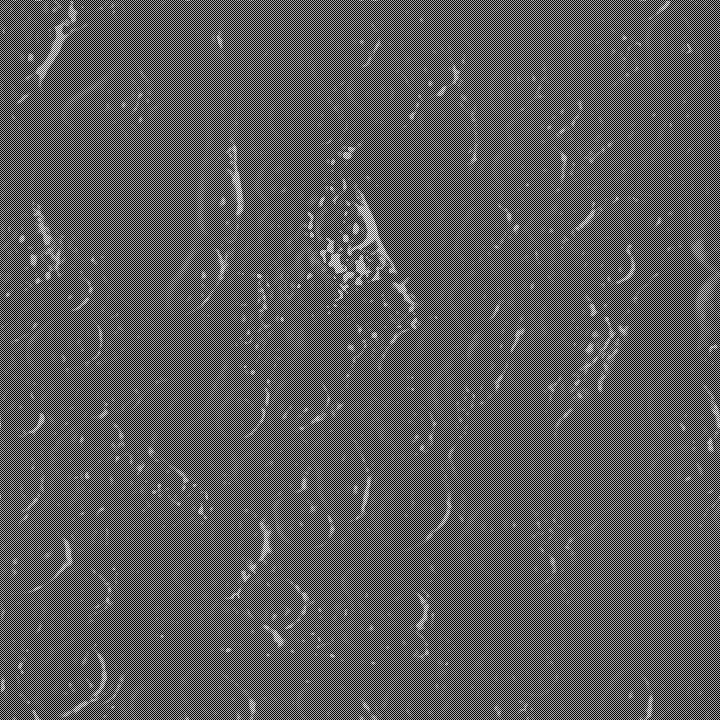
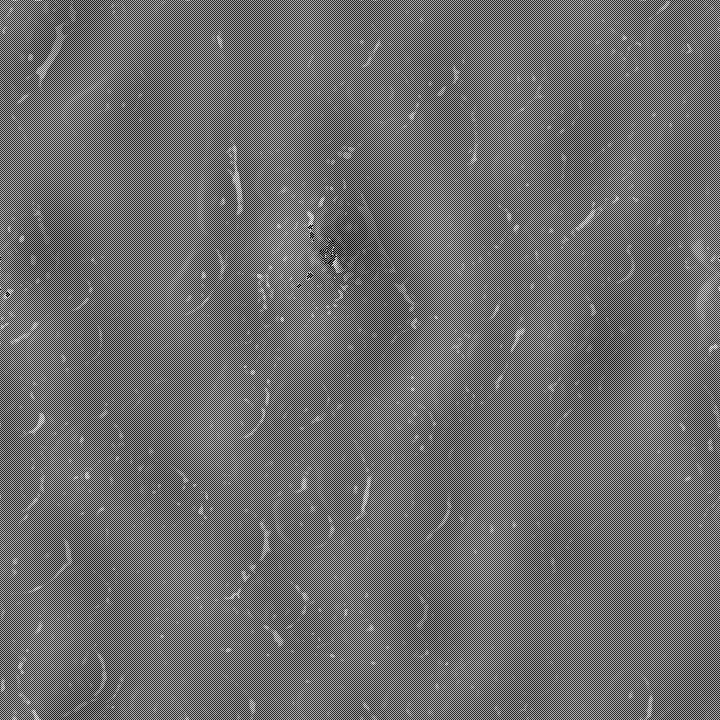
Cambio del radio y de tamaño de pixel

diff --git a/IO_Entrega1_Punto4a.py b/IO_Entrega1_Punto4a.py
@@ -26,7 +26,7 @@ def transmittanceFP(UF1, w_length, f_length, deltau, deltav, M, N, u, v):
 	x=np.arange(-M,M)
 	y=np.arange(-N,N)
 	x,y=np.meshgrid(x,y)
-	lim=50**2   #radius of 500um
+	lim=150**2   #radius of 150um
 	t2_matrix=((deltau*x)**2 + (deltav*y)**2)+(0j)
 	t2_matrix[np.where(t2_matrix<=lim)]=np.exp(1j*(np.pi/2))
 	t2_matrix[np.where(t2_matrix>lim)]=1
@@ -69,8 +69,8 @@ M=360 #Number of pixels=M*2 (number of pixels along one axis=720)
 N=360 #Number of pixels=N*2
 f_length=50000  #(50mm)
 w_length=0.633  #(633nm orange/red) #All units in um
-deltaxprim=2 
-deltayprim=2
+deltaxprim=2.5 
+deltayprim=2.5
 
 #Constrains of pixel sizes do to the Fourier transform discretization
 deltau=(w_length*f_length)/(2*M*deltaxprim) 
